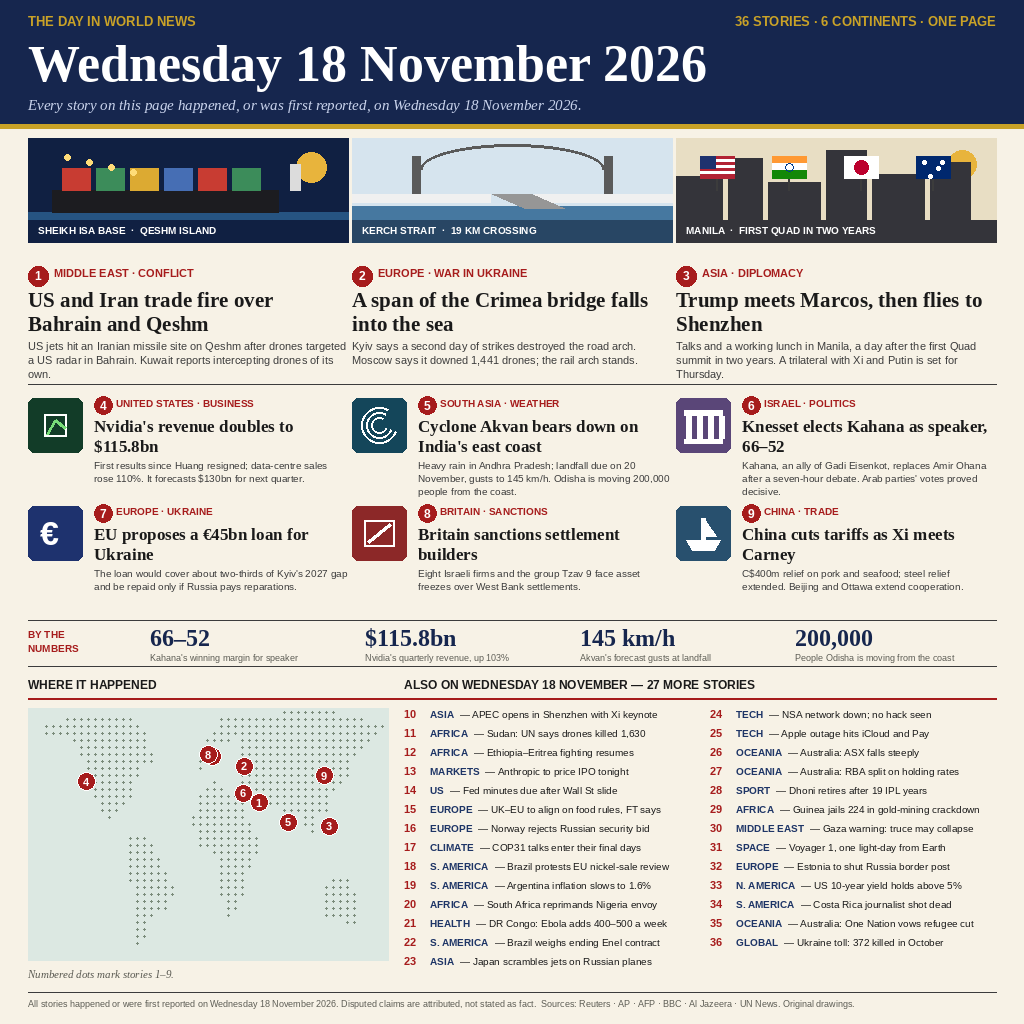
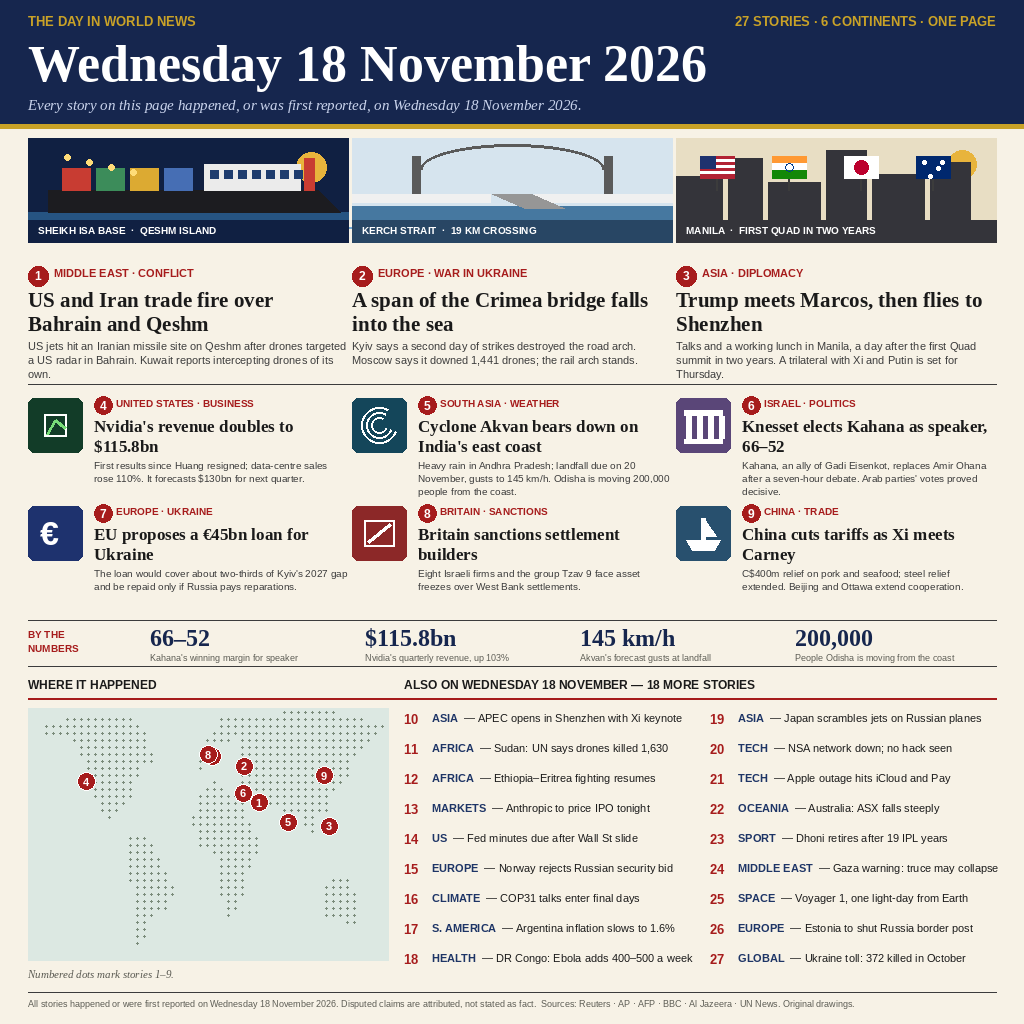
v2: 18 briefs with larger type, clearer tanker hero

Changed region(s): [[0.375, 0.6875, 0.6562, 0.9688], [0.6875, 0.6875, 0.9688, 0.9375], [0.1875, 0.1562, 0.3438, 0.2188]]

diff --git a/generate_frontpage.py b/generate_frontpage.py
@@ -53,10 +53,16 @@ def art_hormuz(d, x, y, w, h):
     d.rectangle([x, y, x + w, y + h], fill=(16, 32, 66))
     d.ellipse([x + w - 52, y + 14, x + w - 22, y + 44], fill=(232, 180, 60))  # sun
     d.rectangle([x, y + h - 30, x + w, y + h], fill=(38, 84, 130))  # sea
-    d.rectangle([x + 24, y + h - 52, x + w - 70, y + h - 30], fill=(28, 28, 32))  # hull
-    for i, c in enumerate([(200, 60, 50), (60, 140, 90), (220, 170, 50), (70, 110, 180), (200, 60, 50), (60, 140, 90)]):
+    for wx in range(0, w, 26):  # waves
+        d.arc([x + wx, y + h - 28, x + wx + 22, y + h - 14], 0, 180, fill=(120, 170, 210), width=2)
+    # tanker: slanted bow, hull, container stacks, white superstructure, funnel
+    d.polygon([(x + 20, y + h - 52), (x + w - 30, y + h - 52), (x + w - 8, y + h - 30), (x + 20, y + h - 30)], fill=(28, 28, 32))
+    for i, c in enumerate([(200, 60, 50), (60, 140, 90), (220, 170, 50), (70, 110, 180)]):
         d.rectangle([x + 34 + i * 34, y + h - 74, x + 62 + i * 34, y + h - 52], fill=c)
-    d.rectangle([x + w - 58, y + h - 78, x + w - 48, y + h - 52], fill=(220, 220, 220))  # bridge tower
+    d.rectangle([x + 176, y + h - 78, x + w - 48, y + h - 52], fill=(235, 235, 235))  # superstructure
+    for wx in range(182, w - 52, 14):
+        d.rectangle([x + wx, y + h - 72, x + wx + 8, y + h - 64], fill=(30, 60, 110))
+    d.rectangle([x + w - 44, y + h - 84, x + w - 34, y + h - 52], fill=(200, 60, 50))  # funnel
     for i in range(4):  # drone trail
         d.ellipse([x + 36 + i * 22, y + 16 + i * 5, x + 42 + i * 22, y + 22 + i * 5], fill=(255, 220, 120))
     d.rectangle([x, y + h - 22, x + w, y + h], fill=(16, 32, 66))
@@ -206,26 +212,30 @@ def main():
     # bottom: map left, briefs right
     y = 678
     d.text((28, y), "WHERE IT HAPPENED", font=SANS_B(12), fill=INK)
-    d.text((404, y), "ALSO ON WEDNESDAY 18 NOVEMBER — 27 MORE STORIES", font=SANS_B(12), fill=INK)
+    briefs = data["briefs"]
+    d.text((404, y), f"ALSO ON WEDNESDAY 18 NOVEMBER — {len(briefs)} MORE STORIES", font=SANS_B(12), fill=INK)
     d.line([28, y + 20, W - 28, y + 20], fill=RED, width=2)
     draw_map(d, 28, y + 30, 360, 252, [(s["n"], s["lon"], s["lat"]) for s in data["featured"]])
     d.text((28, y + 290), "Numbered dots mark stories 1–9.", font=SERIF_I(11), fill=GREY)
-    briefs = data["briefs"]
+    per_col = (len(briefs) + 1) // 2
     for col in range(2):
         x = 404 + col * 306
-        for j in range(14):
-            idx = col * 14 + j
+        for j in range(per_col):
+            idx = col * per_col + j
             if idx >= len(briefs):
                 break
             tag, text = briefs[idx]
-            yy = y + 30 + j * 19
-            d.text((x, yy), f"{10 + idx}", font=SANS_B(11), fill=RED)
+            yy = y + 34 + j * 30
+            d.text((x, yy), f"{10 + idx}", font=SANS_B(13), fill=RED)
             full = text
-            tagw = d.textlength(tag, font=SANS_B(10))
-            while d.textlength(full, font=SANS(10)) > 238 - tagw - 8 and len(full) > 12:
+            tagw = d.textlength(tag, font=SANS_B(11))
+            avail = 300 - 26 - tagw - 8
+            while d.textlength(full, font=SANS(11)) > avail and len(full) > 12:
                 full = full[:-1]
-            d.text((x + 26, yy), tag, font=SANS_B(10), fill=NAVY2)
-            d.text((x + 26 + tagw + 6, yy), "— " + full, font=SANS(10), fill=INK)
+            if full != text:
+                full = full.rstrip() + "…"
+            d.text((x + 28, yy), tag, font=SANS_B(11), fill=NAVY2)
+            d.text((x + 28 + tagw + 6, yy), "— " + full, font=SANS(11), fill=INK)
     # footer
     d.line([28, 992, W - 28, 992], fill=RULE, width=1)
     d.text((28, 998), data["footer"], font=SANS(9), fill=GREY)
